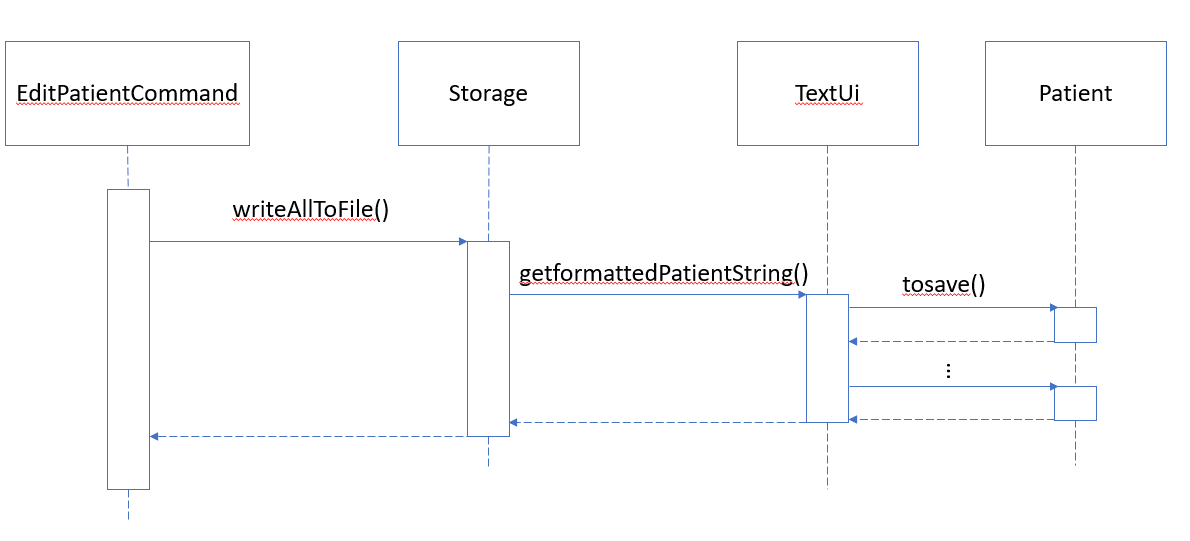
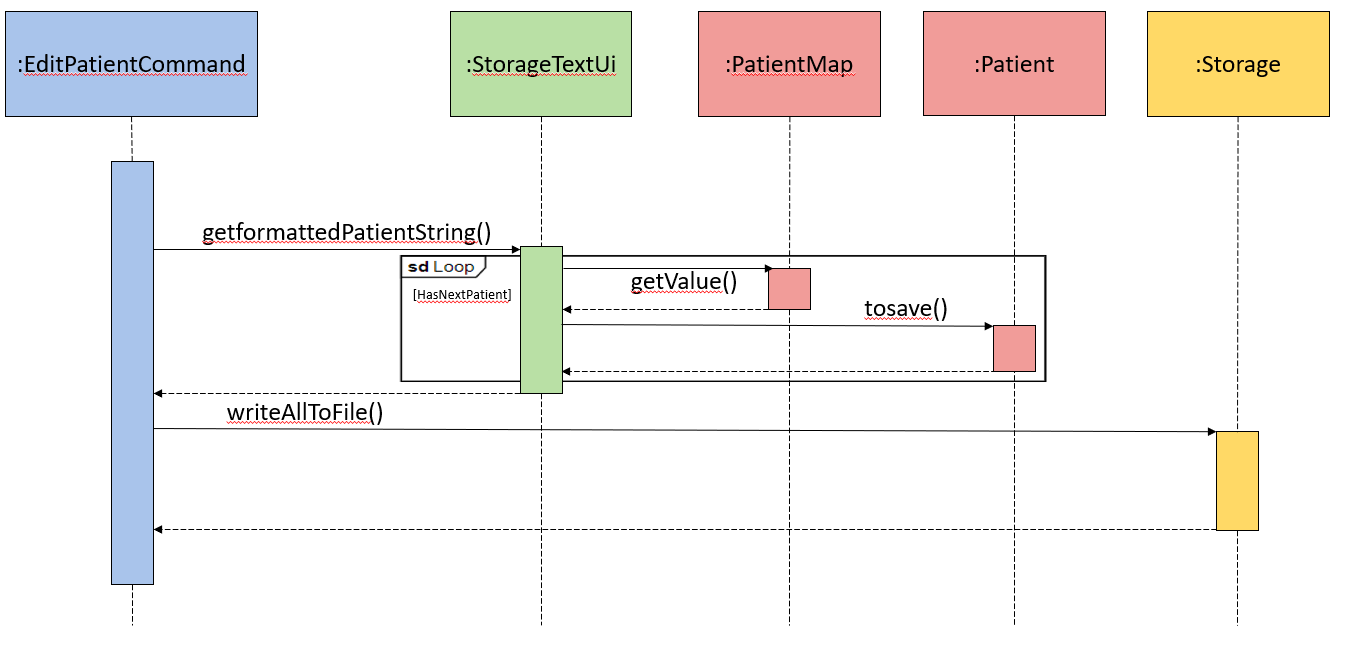
past

diff --git a/docs/DeveloperGuide.md b/docs/DeveloperGuide.md
@@ -486,50 +486,64 @@ closed in the terminal. This is achieved by storing all relevant information in 
 
  The current methods implemented in this class and a brief description of each method:
  - `writeAllToFile` — writes the entire list of object to the specified text file.
- - `addSingleItemToFile` — adds a new object as a single string to the end of specified text file.
+ - `addSingleItemToFile` — appends a new object as a single string to the specified text file.
  - `loadPatientFromFile` — access the patient file and retrieve all information in the file as strings.
  - `parsePatientFileContent` — process line-by-line to create a patient object and add to the shared patient map.
  - `loadAppointmentFromFile` — access the patient file and retrieve all information in the file as strings.
  - `parseAppointmentFileContent` — process line-by-line to create an appointment object and add to the 
                                    shared appointment map.
  - `loadPatientRecordFromFile` — access the patient record file and retrieve all information in the file as strings.
- - `parsePatientRecordFileContent` — process line-by-line to create a patient record object and add to the shared patient map.
+ - `parsePatientRecordFileContent` — process line-by-line to create a patient record object and 
+                                    add to the shared patient map.
 
 **Implementation** 
 
  The following diagram shows how each command interacts with the other classes.
  
  *writeAllToFile*
+ 
+ For illustration purposes, assume the editPatientCommand has called this method.
+   
+  1. editPatientCommand first gets a single formatted string from StorageTextUi.
+  2. StorageTextUi then access the patients in the patientMap one by one to retrieve the a string of the object by the
+     toSave() method. This is a private method that formats a string that contains all the values of the variables.
+     It is constructed with '|' as a divider, and a newline to indicate the end of the object.
+  3. The formatted string is a concatenation of all the toSave() strings of the objects in the list.
+  4. `writeAllToFile` is then called from the editPatientCommand and writes the string into the text file, 
+  overwriting any pre-existing strings in the file.
   
-  This storage method : `writeAllToFile`, gets a single formatted string from TextUi, containing details of all the 
-  objects in a map. Each class object would have a class method to construct a toSave() string, and 
-  each object is stored as a single line within the text file. Hence, the toSave() string is constructed with  
-  '|' as a divider, and a newline to indicate the end of the object. The formatted string is a concatenation of all 
-  the toSave() strings of the objects in the list. `writeAllToFile` then writes the entire string into the text file, 
-  overwriting any existing strings in the file.
-  This is implemented for edit and delete commands as they cannot be appended.
+  This is implemented for edit and delete command of the various object. The process is identical regardless of
+  the object.
   
   ![writing](images/DG/STORAGE/StorageWriteAll.png)
  
  *addSingleItemToFile*
  
- Each class object would have a class method to construct a toSave() string, and each object is stored as a single line
- within the text file. Hence, the toSave() string is constructed with  '|' as a divider, and a newline to indicate 
- the end of the object.  This storage method : addSingleItemToFile, uses the toSave() string of the object 
- it needs to save, by appending it to the back of the text file. 
+ For illustration purposes, assume addPatientCommand has called this method.
+ 
+ 1. The toSave() method formats a string that contains all the values of the variables. 
+ It is constructed with '|' as a divider, and a newline to indicate the end of the object.
+  2. `addSingleItemToFile` is called by addPatientCommand and appends the string to the back of the text file. 
+ 
+ This is implemented for all add command of the various object, and process is identical. 
  This provides improved performance for add commands as compared to using writeAllToFile(), as less strings need 
- to be retrieved.
+ to be retrieved and formatted.
  
  ![saving](images/DG/STORAGE/StorageSave.png)
  
  *loading and parsing file content to HappyPills*
  
 Loading and parsing methods are separated by class types. Each text file in HappyPills represent a single class.
-For example, `loadingPatientsFromFile` retrieves the entire string from the patient file and uses 
-`parsePatientFileContent` to convert each line into a patient object and adds it back to the patient map. 
-`loadAppointmentFromFile` and `parseAppointmentFileContent` does the same with the appointment file.
- 
- ![loading](images/DG/STORAGE/StorageLoad.png)
+
+For illustration purposes, only the load and parse for patient is called. The process is similar for all object.
+1.  `loadPatientsFromFile` retrieves the entire content of the patient file, if any. 
+2. `loadPatientsFromFile` then passes it line by line to `parsePatientFileContent`
+3. `parsePatientFileContent` creates a patient object and adds the details from the single line string into the object.
+4. `parsePatientFileContent` then adds the patient object into the patient map and returns. 
+5. Step 2 - 4  is repeated if there is a next line in the content of the file.
+4. `loadPatient` then returns the whole patientMap to `HappyPills`.
+
+ ![loading](images/DG/STORAGE/StorageLoadPatient.png)
  
 **Design Considerations**
 
@@ -537,22 +551,24 @@ For example, `loadingPatientsFromFile` retrieves the entire string from the pati
 Alternative 1 was chosen as fewer checks means that the program is less prone to exception, especially
 so if the checks are confusing to implement. This would put lesser risk on the user experience for now.
 
-        Alternative 1 (current choice): Single object stored into the same file
+        Alternative 1 (current choice): Save the objects by object type.
           Pros: Fewer checks required to identify class of the string, parsing is easier.
-          Cons: Delete and update operation may take a long time if the string is very long
+          Cons: Delete and update operation may take a long time if there are alot of objects.
 
-        Alternative 2: Store each patient as an individual text file, along with all its relevant class objects. 
+        Alternative 2: Store each patient as an individual text file, along with all its associated objects. 
                        A list with all the patient’s NRIC will also be stored for referencing.
-          Pros: Delete and edit operation on a patient will only affect his/her file, and the referencing list.
-          Cons: More checks are requires to identify class of the string
+          Pros: Delete and edit operation on a patient will only affect the patient's file, and the referencing list.
+          Cons: More checks are requires to identify class of the string in the file.
 
 *Aspect: Updating deletion/edit* 
 
 Alternative 1 was chosen for now as the program is relatively new, and is more likely to be subjected to unexpected exceptions.
 
         Alternative 1 (current choice): Upon every delete/edit operation, update the relevant text file
-          Pros: All deletions are updated in the relevant text files immediately and will not be affected by any unexpected termination of the program.
-          Cons: In the event that there is a large amount of deletion, it could be time-consuming for the user and memory-intensive on the machine.
+          Pros: All deletions are updated in the relevant text files immediately and will not be affected by any 
+          unexpected termination of the program.
+          Cons: In the event that there is a large amount of deletion, it could be time-consuming for the user 
+          and memory-intensive on the machine.
 
         Alternative 2: Saving the delete/edit operation to a list, then process it before the exit of the program
           Pros: Delay deletion time cost so that the use of the program is faster and smoother during time of use.
